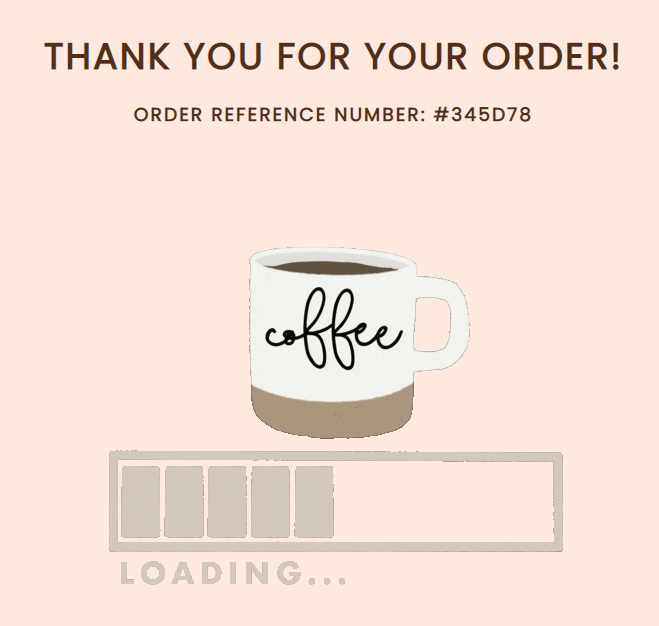
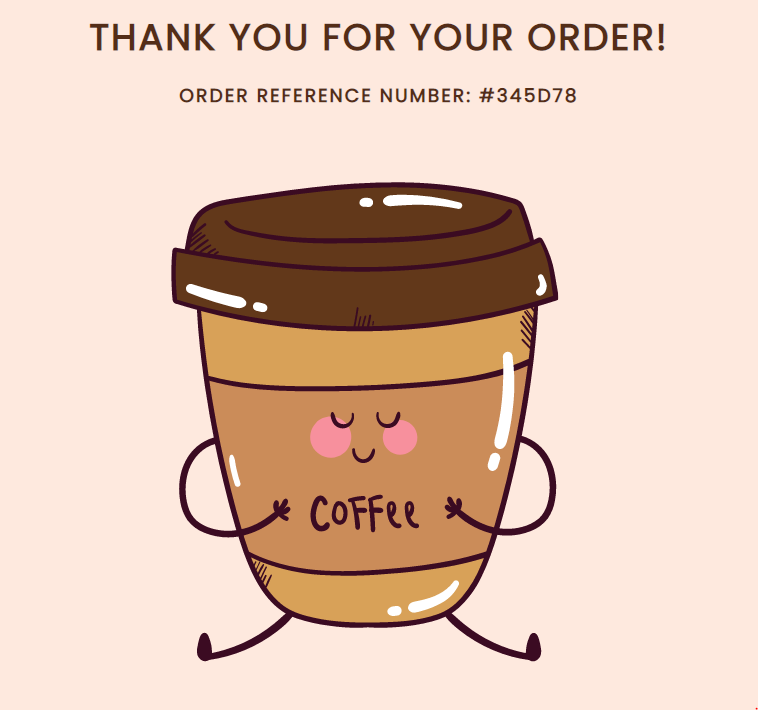
Update README to reflect new thank you page.

diff --git a/README.md b/README.md
@@ -146,7 +146,7 @@ The Cozy Cup is a website for a fictional coffee shop based in Cork, Ireland. Th
 - [Convertio](https://convertio.co/webp-jpg/) - to convert all images to webp..
 - [Tiny PNG](https://tinypng.com/) - to compress images.
 - [Favicon](https://favicon.io/) - to create favicon of the website.
-- [Canva](https://www.canva.com/) - to design the favicon and 404 image.
+- [Canva](https://www.canva.com/) - to design the favicon, thank you page image and 404 image.
 - [ColorSpace](https://mycolor.space/) - to generate color pallet.
 - [Google Fonts](https://fonts.google.com/) - to import the fonts used in the website.
 - [Am I Responsive?](https://ui.dev/amiresponsive) - to show responsivness of the website across multiple devices.
@@ -266,8 +266,7 @@ The live link can be found here - [Live Website](https://debear92.github.io/the-
 ## Media
 
 - Images for the homepage, about us and gallery were taken from [Pexels](https://www.pexels.com/) 
-- The GIF in the Thank You page was taken from [GIPHY](https://giphy.com/stickers/coffee-morning-good-U2SEgCvadzuSrEmS1l)
-- The Favicon and the image of the 404 page were designed by myself using [Canva](https://www.canva.com/)
+- The Favicon, the image in the thank you page and the image of the 404 page were designed by myself using [Canva](https://www.canva.com/)
 - The icons in the footer were taken from [Font Awesome](https://fontawesome.com/)
 
 ## Content
@@ -283,6 +282,6 @@ The live link can be found here - [Live Website](https://debear92.github.io/the-
 
 # Aknowledgments
 
-I would like to thank my mentor [Spencer Barriball](https://github.com/5pence) for his support and all his helpful feedbacks during the development of his project.
+I would like to thank my mentor [Spencer Barriball](https://github.com/5pence) for his support and all his helpful feedbacks during the development of this project.
 A big thank you goes also to my brother [Davide](https://github.com/Dave0x21) for always being patient with my million questions and for always making me want to strive for the best.
 
